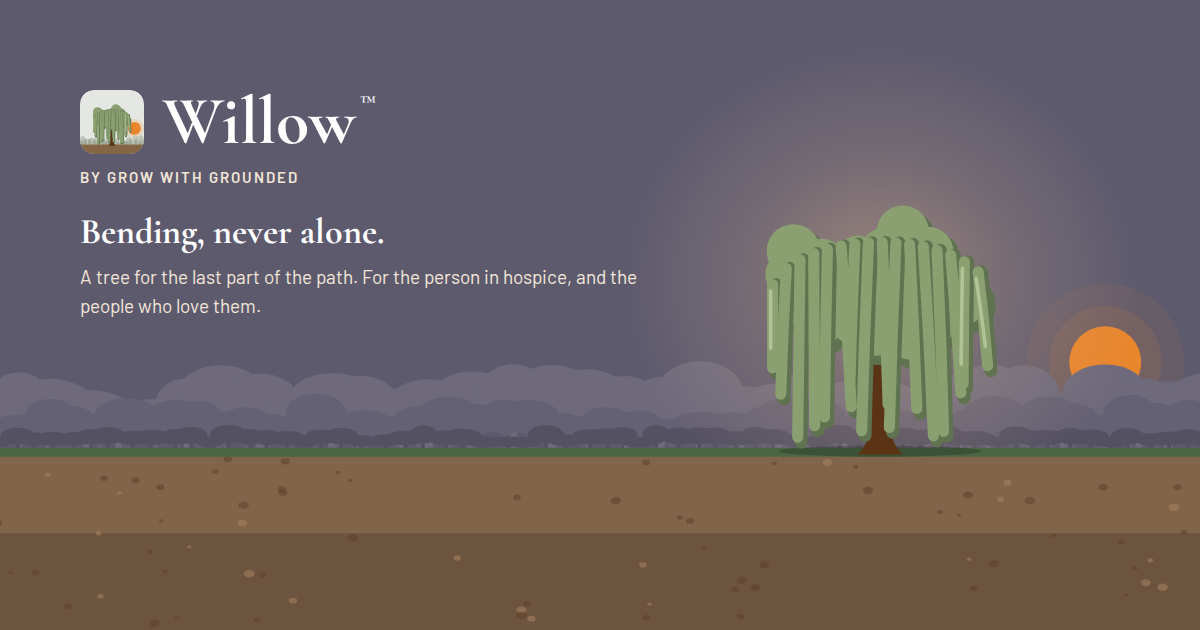
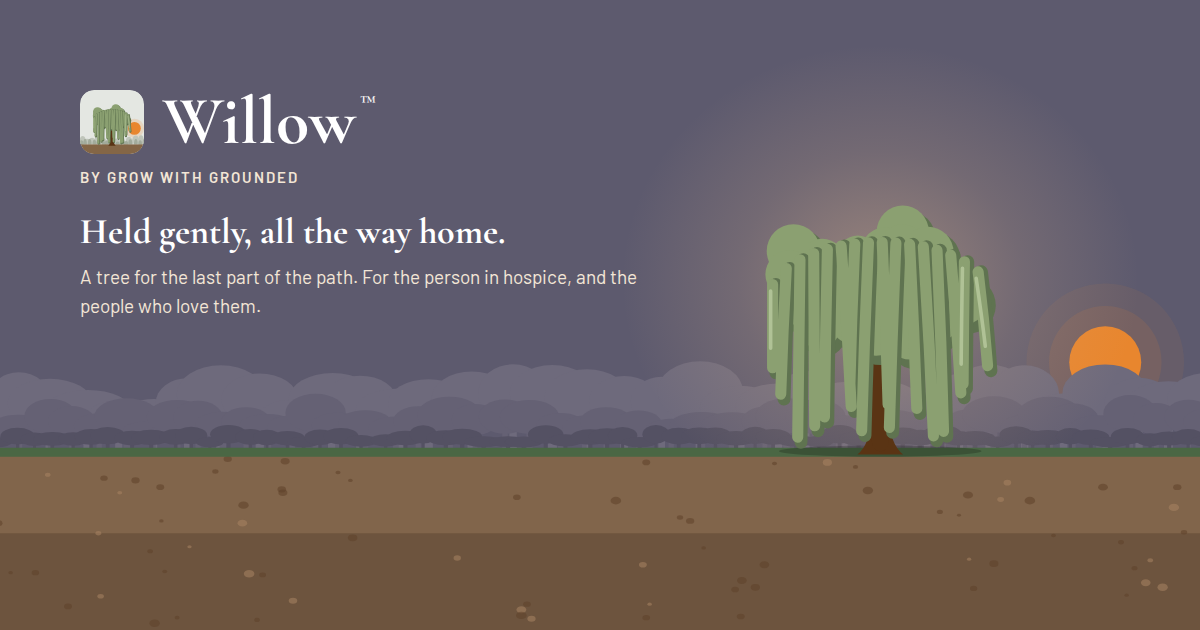
Add files via upload

Changed region(s): [[0.0617, 0.3317, 0.4317, 0.4222]]

diff --git a/willow/index.html b/willow/index.html
@@ -9,8 +9,8 @@
 <meta name="theme-color" content="#5D5A6E">
 <link rel="icon" type="image/svg+xml" href="/shared/marks/willow-tab.svg">
 <link rel="apple-touch-icon" href="apple-touch-icon.png">
-<title>Willow by Grow With Grounded | Bending, never alone</title>
-<meta name="description" content="Bending, never alone. A tree for the last part of the path, for the person in hospice and the people who love them. Six parts make you whole, to the very end.">
+<title>Willow by Grow With Grounded | Held gently, all the way home</title>
+<meta name="description" content="Held gently, all the way home. A tree for the last part of the path, for the person in hospice and the people who love them. Six parts make you whole, to the very end.">
 <meta property="og:type" content="website">
 <meta property="og:url" content="https://growwithgrounded.com/willow/">
 <meta property="og:image" content="https://growwithgrounded.com/willow/share-image.png">
@@ -20,10 +20,10 @@
 <link rel="canonical" href="https://growwithgrounded.com/willow/">
 <meta property="og:site_name" content="Grow With Grounded">
 <meta property="og:title" content="Willow by Grow With Grounded">
-<meta property="og:description" content="Bending, never alone. A tree for the last part of the path, for the person in hospice and the people who love them.">
+<meta property="og:description" content="Held gently, all the way home. A tree for the last part of the path, for the person in hospice and the people who love them.">
 <meta name="twitter:card" content="summary_large_image">
 <meta name="twitter:title" content="Willow by Grow With Grounded">
-<meta name="twitter:description" content="Bending, never alone. From Grow With Grounded.">
+<meta name="twitter:description" content="Held gently, all the way home. From Grow With Grounded.">
 <link rel="stylesheet" href="/fonts/fonts.css">
 <link rel="stylesheet" href="/shared/gg-hero.css">
 <style>
@@ -935,7 +935,7 @@ html.ts-2 main{zoom:1.25;}
   <div class="gg-hero-text">
     <div class="gg-hero-lock"><img class="gg-hero-mark" src="/shared/marks/willow.svg" alt="" width="64" height="64"><h1 id="hero-title">Willow<sup>&trade;</sup></h1></div>
     <p class="gg-hero-by"><a href="https://growwithgrounded.com/">by Grow With Grounded</a></p>
-    <p class="gg-hero-tag">Bending, never alone.</p>
+    <p class="gg-hero-tag">Held gently, all the way home.</p>
     <p class="gg-hero-sub">A tree for the last part of the path.<br>For the person in hospice, and the people who love them.</p>
     <div class="gg-hero-actions"><button class="gg-hero-btn main" type="button" onclick="W.begin()">Begin with Willow</button><button class="gg-hero-btn line" type="button" onclick="W.go('about')">How it works</button></div>
     <p class="gg-hero-pro">Chaplain or end-of-life doula? Willow Guide is coming to the <a href="https://growwithgrounded.com/field-guide/#about">Grounded Field Guide</a>.</p>

diff --git a/tools.html b/tools.html
@@ -340,7 +340,7 @@ body.bro-open{overflow:hidden;}
         <div>
           <span class="badge live">Live now</span>
           <h3>Willow</h3>
-          <p class="tool-tag">Bending, never alone.</p>
+          <p class="tool-tag">Held gently, all the way home.</p>
           <p>A tree for the last part of the path, built for two: the person in hospice, and the people who love them. Gentle check-ins that always ask about faith first and record who answered, a page for what matters most, Cuttings for the stories and letters they want to leave, a log of what helped today, and faith cards for 29 traditions. Helpers open it with their own passcode and see only what the person chooses to share.</p>
           <div class="tool-actions"><a class="btn btn-primary" href="https://growwithgrounded.com/willow/">Begin with Willow</a><a class="text-link" href="https://growwithgrounded.com/willow/#guides">Hard talks at the end of life</a><a class="text-link" href="https://growwithgrounded.com/willow/#readings">Readings for any faith or none</a></div>
         </div>
